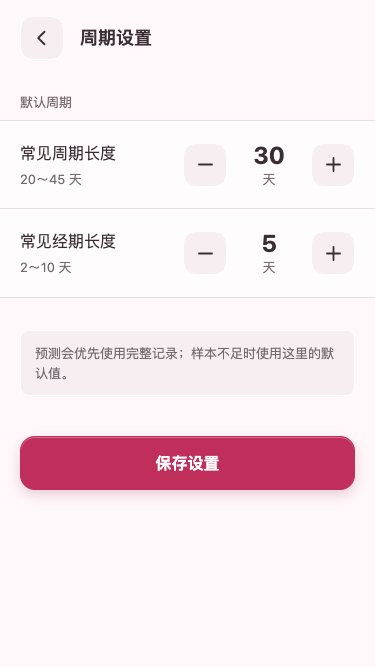
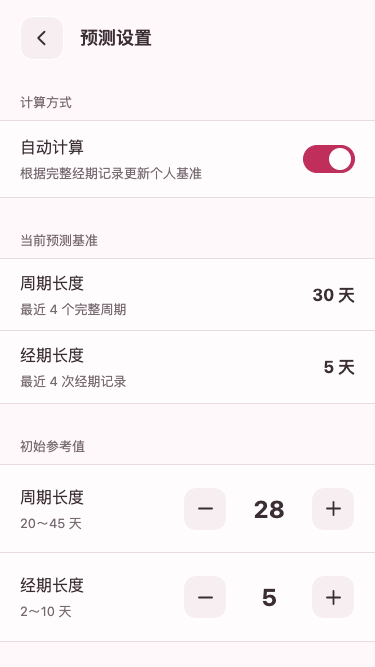
feat: clarify prediction setup and onboarding inputs

diff --git a/src/app/cycle-settings.tsx b/src/app/cycle-settings.tsx
@@ -1,30 +1,78 @@
-import { useRouter } from 'expo-router';
 import { Minus, Plus } from '@/components/soft-icons';
+import { useRouter } from 'expo-router';
 import { useState } from 'react';
-import { Pressable, ScrollView, StyleSheet } from 'react-native';
+import { Pressable, ScrollView, StyleSheet, View } from 'react-native';
 
-import { PrimaryButton } from '@/components/primary-button';
 import { Page } from '@/components/page';
+import { PrimaryButton } from '@/components/primary-button';
 import { SettingsDetailHeader } from '@/components/settings-detail-header';
 import { Box, Text, theme } from '@/theme';
 
 export default function CycleSettingsScreen() {
   const router = useRouter();
-  const [cycleLength, setCycleLength] = useState(30);
+  const [automatic, setAutomatic] = useState(true);
+  const [cycleLength, setCycleLength] = useState(28);
   const [periodLength, setPeriodLength] = useState(5);
 
   return (
     <Page>
       <ScrollView contentContainerStyle={styles.content} tabIndex={0}>
-        <SettingsDetailHeader title="周期设置" />
+        <SettingsDetailHeader title="预测设置" />
 
         <Box marginTop="xl">
           <Text marginBottom="s" paddingHorizontal="page" variant="caption">
-            默认周期
+            计算方式
+          </Text>
+          <Box style={styles.methodGroup}>
+            <Box flex={1}>
+              <Text variant="body">自动计算</Text>
+              <Text marginTop="xs" variant="caption">
+                根据完整经期记录更新个人基准
+              </Text>
+            </Box>
+            <Pressable
+              accessibilityLabel={`自动计算预测基准，${automatic ? '已开启' : '已关闭'}`}
+              accessibilityRole="button"
+              onPress={() => setAutomatic((current) => !current)}
+              style={({ pressed }) => [
+                styles.toggle,
+                automatic ? styles.toggleOn : styles.toggleOff,
+                pressed && styles.pressed,
+              ]}
+            >
+              <View
+                style={[styles.toggleThumb, automatic && styles.toggleThumbOn]}
+              />
+            </Pressable>
+          </Box>
+        </Box>
+
+        <Box marginTop="xl">
+          <Text marginBottom="s" paddingHorizontal="page" variant="caption">
+            当前预测基准
+          </Text>
+          <Box style={styles.controlGroup}>
+            <BasisRow
+              label="周期长度"
+              source={automatic ? '最近 4 个完整周期' : '使用固定数值'}
+              value={automatic ? 30 : cycleLength}
+            />
+            <BasisRow
+              isLast
+              label="经期长度"
+              source={automatic ? '最近 4 次经期记录' : '使用固定数值'}
+              value={automatic ? 5 : periodLength}
+            />
+          </Box>
+        </Box>
+
+        <Box marginTop="xl">
+          <Text marginBottom="s" paddingHorizontal="page" variant="caption">
+            {automatic ? '初始参考值' : '固定预测值'}
           </Text>
           <Box style={styles.controlGroup}>
             <NumberControl
-              label="常见周期长度"
+              label="周期长度"
               max={45}
               min={20}
               onChange={setCycleLength}
@@ -32,7 +80,7 @@ export default function CycleSettingsScreen() {
             />
             <NumberControl
               isLast
-              label="常见经期长度"
+              label="经期长度"
               max={10}
               min={2}
               onChange={setPeriodLength}
@@ -44,7 +92,9 @@ export default function CycleSettingsScreen() {
         <Box marginTop="xl" paddingHorizontal="page">
           <Box style={styles.rangeNote}>
             <Text variant="caption">
-              预测会优先使用完整记录；样本不足时使用这里的默认值。
+              {automatic
+                ? '完整记录少于 3 个周期时，使用初始参考值进行预测。'
+                : '关闭自动计算后，预测始终使用固定数值。'}
             </Text>
           </Box>
         </Box>
@@ -65,6 +115,37 @@ type NumberControlProps = {
   onChange: (value: number) => void;
   value: number;
 };
+
+function BasisRow({
+  isLast,
+  label,
+  source,
+  value,
+}: {
+  isLast?: boolean;
+  label: string;
+  source: string;
+  value: number;
+}) {
+  return (
+    <Box
+      alignItems="center"
+      borderBottomColor="companionCashmereStrong"
+      borderBottomWidth={isLast ? 0 : StyleSheet.hairlineWidth}
+      flexDirection="row"
+      minHeight={72}
+      paddingHorizontal="page"
+    >
+      <Box flex={1}>
+        <Text variant="body">{label}</Text>
+        <Text marginTop="xs" variant="caption">
+          {source}
+        </Text>
+      </Box>
+      <Text style={styles.basisValue}>{value} 天</Text>
+    </Box>
+  );
+}
 
 function NumberControl({
   isLast,
@@ -98,7 +179,6 @@ function NumberControl({
         />
         <Box alignItems="center" minWidth={52}>
           <Text style={styles.valueText}>{value}</Text>
-          <Text variant="caption">天</Text>
         </Box>
         <StepButton
           disabled={value >= max}
@@ -144,12 +224,30 @@ const styles = StyleSheet.create({
     paddingBottom: 48,
     paddingTop: 16,
   },
+  basisValue: {
+    color: theme.colors.companionInk,
+    fontSize: 17,
+    fontVariant: ['tabular-nums'],
+    fontWeight: '700',
+    lineHeight: 24,
+  },
   controlGroup: {
     backgroundColor: theme.colors.companionSurface,
     borderBottomColor: theme.colors.companionCashmereStrong,
     borderBottomWidth: StyleSheet.hairlineWidth,
     borderTopColor: theme.colors.companionCashmereStrong,
     borderTopWidth: StyleSheet.hairlineWidth,
+  },
+  methodGroup: {
+    alignItems: 'center',
+    backgroundColor: theme.colors.companionSurface,
+    borderBottomColor: theme.colors.companionCashmereStrong,
+    borderBottomWidth: StyleSheet.hairlineWidth,
+    borderTopColor: theme.colors.companionCashmereStrong,
+    borderTopWidth: StyleSheet.hairlineWidth,
+    flexDirection: 'row',
+    minHeight: 78,
+    paddingHorizontal: 20,
   },
   pressed: {
     opacity: 0.65,
@@ -177,6 +275,33 @@ const styles = StyleSheet.create({
   },
   stepButtonDisabled: {
     opacity: 0.35,
+  },
+  toggle: {
+    borderCurve: 'continuous',
+    borderRadius: 14,
+    borderWidth: 1,
+    height: 28,
+    justifyContent: 'center',
+    paddingHorizontal: 3,
+    width: 52,
+  },
+  toggleOff: {
+    backgroundColor: theme.colors.companionCashmereStrong,
+    borderColor: theme.colors.companionCashmereStrong,
+  },
+  toggleOn: {
+    backgroundColor: theme.colors.companionBerry,
+    borderColor: theme.colors.companionBerry,
+  },
+  toggleThumb: {
+    backgroundColor: theme.colors.companionSurface,
+    borderRadius: 11,
+    boxShadow: `0 2px 4px ${theme.colors.companionShadow}`,
+    height: 22,
+    width: 22,
+  },
+  toggleThumbOn: {
+    alignSelf: 'flex-end',
   },
   valueText: {
     color: theme.colors.companionInk,

diff --git a/src/app/(tabs)/settings.tsx b/src/app/(tabs)/settings.tsx
@@ -17,12 +17,12 @@ export default function SettingsScreen() {
   return (
     <Page>
       <ScrollView contentContainerStyle={styles.content} tabIndex={0}>
-        <SettingsSection label="周期默认值">
+        <SettingsSection label="预测与周期">
           <SettingRow
             accent={theme.colors.companionBerry}
-            description="周期 30 天 · 经期 5 天"
+            description="自动计算 · 当前周期基准 30 天"
             icon={SlidersHorizontal}
-            label="周期设置"
+            label="预测设置"
             onPress={() => router.push('/cycle-settings')}
           />
         </SettingsSection>

diff --git a/docs/batch-1.6-result.md b/docs/batch-1.6-result.md
@@ -25,10 +25,11 @@
 - 今天页：使用同一字号的单行完整日期；周期图例与主要按钮之间增加独立间距，开放式周期轨道仍是唯一主视觉。
 - 记录页：移除重复页头；月历图标移入色带，实际经期图例与色带同色，预测色带补全左右边界并保持连续。
 - 趋势页：移除重复页头；在周期趋势、个人范围和历史列表之外增加本周期记录覆盖与样本分析。
-- 设置页：成为第四个固定底部入口，使用周期默认值、隐私与数据、应用信息三个分组入口，不重复展示版本脚注。
-- 周期设置页：使用稳定尺寸的加减步进器调整常见周期和经期长度；持久化留待批次 2 接入。
+- 设置页：成为第四个固定底部入口，使用预测设置、隐私与数据、应用信息三个分组入口，不重复展示版本脚注。
+- 预测设置页：默认开启自动计算，展示当前周期/经期基准及来源；初始参考值使用稳定尺寸的加减步进器调整，持久化留待批次 2 接入。
 - 隐私与数据页：分别展示本地存储、AI 分析和云端同步状态，清除数据保持独立危险操作样式。
 - 关于页：使用紧凑返回栏，展示产品名称、用途与 `0.1.0` 版本号。
+- 初始化方案：首次打开只收集最近一次经期开始日期；初始周期和经期长度可选，默认 28 天和 5 天，不收集额外身份或健康资料。
 - 记录面板：流量、痛感、症状、心情和备注共用取消/确认交互，面板内修改先暂存，确认后才写入。
 - 共享组件：页面画布、主要按钮、图标按钮、分区标题、趋势线和周期轨道统一到全局语义令牌。
 
@@ -46,7 +47,7 @@
 | 412 × 915 备注面板     | 通过；输入区和顶部取消、确认操作适配标准屏       | [查看](./screenshots/batch-1.6/note-sheet-412x915.png)          |
 | 390 × 844 趋势页       | 通过；周期趋势、记录覆盖、个人范围与分析连续呈现 | [查看](./screenshots/batch-1.6/trends-390x844.png)              |
 | 375 × 667 设置页       | 通过；三组入口与底栏无重叠                       | [查看](./screenshots/batch-1.6/settings-375x667.png)            |
-| 375 × 667 周期设置页   | 通过；两组步进器与保存操作层级清楚               | [查看](./screenshots/batch-1.6/cycle-settings-375x667.png)      |
+| 375 × 667 预测设置页   | 通过；自动计算、当前基准与参考值层级清楚         | [查看](./screenshots/batch-1.6/cycle-settings-375x667.png)      |
 | 375 × 667 隐私数据页   | 通过；状态列表与危险操作层级明确                 | [查看](./screenshots/batch-1.6/privacy-data-375x667.png)        |
 | 375 × 667 关于页       | 通过；返回、应用信息与版本层级明确               | [查看](./screenshots/batch-1.6/about-375x667.png)               |
 

diff --git a/docs/ui-layout.md b/docs/ui-layout.md
@@ -19,7 +19,7 @@
 1. `今天`：展示当前周期状态、预测范围、周期弧和经期开始/结束操作。
 2. `记录`：展示日历、所选日期摘要和每日记录项目。
 3. `趋势`：展示基础周期趋势和历史经期。
-4. `设置`：提供周期默认值、隐私与数据、应用信息三个独立入口。
+4. `设置`：提供预测设置、隐私与数据、应用信息三个独立入口。
 
 设置作为固定底部入口，可从任意主页面一步进入。v0.1 不设置“我的”入口，因为没有账户、社区、会员或个人内容中心。
 
@@ -123,16 +123,35 @@ v0.1 不记录性生活、避孕方式、体重、白带、体温、经血颜色
 今天：单行日期 → 开放式周期轨道 → 主要操作 → 今日记录列表
 记录：月历 → 日期摘要与经期操作 → 统一记录列表
 趋势：周期主指标与趋势线 → 记录覆盖 → 个人范围 → 记录分析 → 历史列表
-设置：周期设置 → 隐私与数据 → 关于与版本
+设置：预测设置 → 隐私与数据 → 关于与版本
 ```
 
 - 首页周期轨道和连续经期色带是唯一强记忆点，其他区域不争夺视觉注意力。
 - 趋势页不使用仪表盘式卡片阵列；图表、指标和历史记录各回答一个问题。
 - 主页面不重复显示与底部导航同名的大标题和描述；内容从首个功能区开始。
 - 设置首页只承担分类和跳转，不直接展开控件；周期默认值、隐私与数据、应用信息分别进入独立详情页。
-- 周期详情页使用加减步进器调整常见周期长度与常见经期长度；批次 2 接入本地持久化。
+- 预测设置页默认开启自动计算，展示当前预测基准及其数据来源；初始参考值使用加减步进器调整，批次 2 接入本地持久化。
 - 隐私与数据页明确展示本地存储、AI 分析和云端同步状态，清除数据作为独立危险操作。
 - 版本号只在关于页展示，设置首页不重复放置版本脚注。
+
+### 初始化页
+
+初始化页只完成预测所需的最小输入：
+
+```text
+欢迎使用月有序
+先告诉我们最近一次经期何时开始
+
+最近一次经期开始日期       选择日期
+初始周期长度               28 天（可选）
+初始经期长度                5 天（可选）
+自动计算                   默认开启
+
+开始记录
+```
+
+日期是唯一必填项；两个参考值允许跳过，系统使用温和的默认值并在后续完整记录出现后自动更新。
+
 - 底部面板使用统一外壳；流量、痛感、症状、心情和备注根据字段语义选择控件高度与强调色。
 
 ### 组件约束

diff --git a/docs/product-brief.md b/docs/product-brief.md
@@ -21,11 +21,22 @@ v0.1 只实现无需账户和网络即可完成的基础闭环：设置周期基
 
 ### 核心页面
 
-- 首次设置：最近一次经期、常见周期长度和常见经期长度。
+- 首次设置：最近一次经期开始日期，以及可选的初始周期和经期参考值；不要求填写姓名、年龄或其他健康资料。
 - 今天：当前周期状态、预测范围、快速记录入口和当天摘要。
 - 记录：上方月历展示实际经期、预测经期和每日记录状态；下方展示所选日期的记录项目，点击项目从底部展开详细字段。
 - 趋势：基础的周期长度、经期长度、规律程度和历史记录。
-- 设置：周期默认值、隐私与数据、应用信息三个独立入口；具体内容在对应详情页调整或查看。
+- 设置：预测设置、隐私与数据、应用信息三个独立入口；具体内容在对应详情页调整或查看。
+
+### 首次初始化信息
+
+首次打开 App 时进入初始化页面，完成最小可用设置后进入今天页。初始化只收集影响经期预测的必要信息：
+
+- 最近一次经期开始日期：必填，用于建立第一条周期事实记录。
+- 初始周期长度：选填，默认 28 天；仅在完整周期样本不足时作为参考值。
+- 初始经期长度：选填，默认 5 天；仅在经期记录样本不足时作为参考值。
+- 自动计算：默认开启；有足够完整记录后由本地算法逐步替代初始参考值。
+
+初始化不收集姓名、年龄、身高体重、备孕状态、性生活、地理位置或联系方式。用户可以跳过可选参考值，之后在“设置 → 预测设置”中补充或修正。
 
 底部主导航固定为 `今天`、`记录`、`趋势` 和 `设置`，可从任意主页面直接进入设置。详细布局参见 [UI 布局规范](./ui-layout.md)。
 

diff --git a/docs/discussion-log.md b/docs/discussion-log.md
@@ -67,6 +67,8 @@
 - 第三轮批次 1.6 验收调整恢复周期默认值、隐私与数据，并与应用信息一样改为独立详情页入口。
 - 周期设置页使用数值步进器调整常见周期和经期长度；隐私与数据页展示本地、AI 和云端状态，并保留独立清除数据操作。
 - 设置首页移除重复的“月有序 · v0.1.0”脚注，版本号只在关于页展示。
+- 预测设置不再把周期数值当作长期手工维护项：默认开启自动计算，当前基准展示最近完整周期来源，用户填写的数值仅作为样本不足时的初始参考值。
+- 首次初始化只要求最近一次经期开始日期；初始周期长度和经期长度为可选参考值，默认分别为 28 天和 5 天，不收集姓名、年龄及其他无关健康资料。
 
 ### 架构提案
 

diff --git a/docs/development-plan.md b/docs/development-plan.md
@@ -147,13 +147,15 @@
 ### 范围
 
 - 建立 SQLite 迁移、领域模型和 Repository。
-- 实现周期基础设置、首次设置流程和本地恢复。
+- 实现预测设置、初始化页面和本地恢复。
+- 初始化页面只要求最近一次经期开始日期；初始周期长度和经期长度可选，默认 28 天和 5 天。
+- 初始化完成后进入今天页；App 重启时根据本地完成标记决定是否再次进入初始化。
 - 确立本地日期、创建时间和时区的保存规则。
 - 覆盖数据库初始化、迁移、读取和清除测试。
 
 ### 验收
 
-- App 重启后基础设置仍能恢复。
+- App 重启后初始化状态和预测参考值仍能恢复。
 - 数据层不依赖 React Native 页面。
 - 数据表和领域模型经审核后冻结为 v0.1 基线。
 
